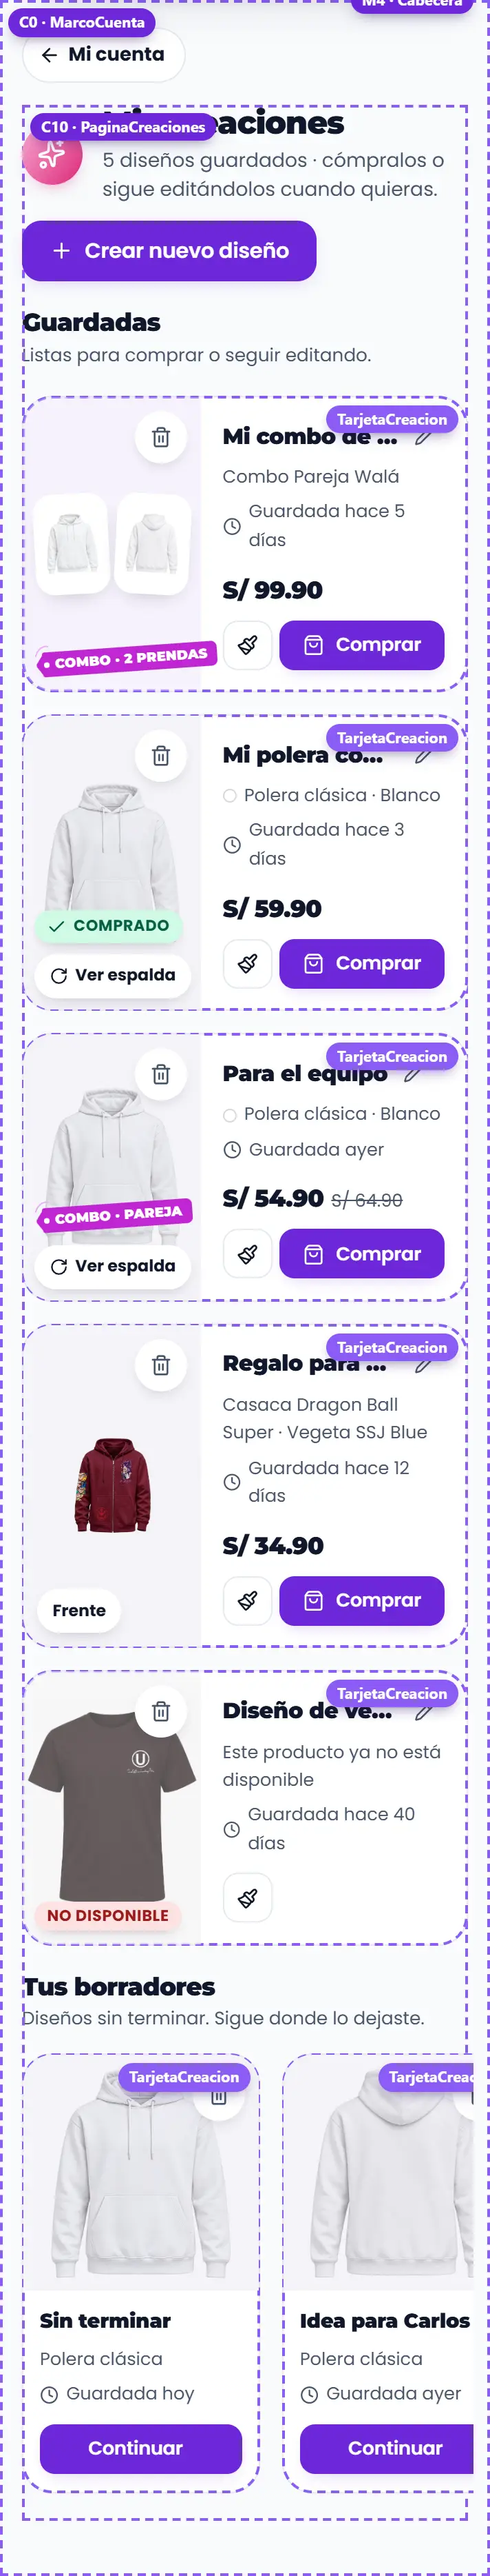
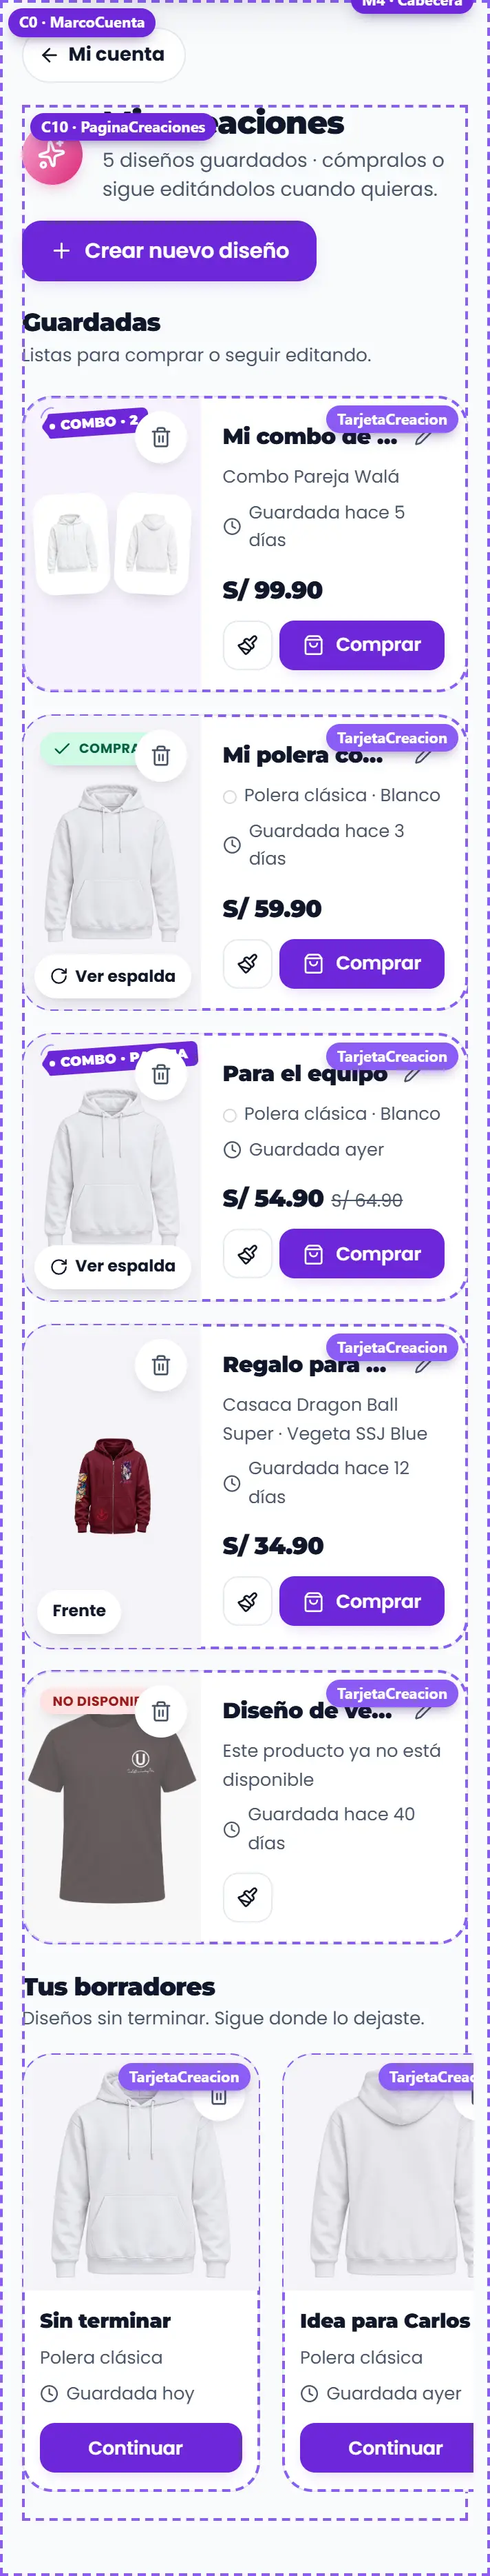
Kit: la tarjeta de creación se comporta como la de producto al pasar el mouse
- Etiquetas arriba a la izquierda, en columna y dentro de la foto (ya no
  asoman por el borde); "Combo · 2" corto y en tamaño chico si la foto es
  angosta, como la tarjeta de producto.
- Con el ratón: se inclina siguiendo al puntero y se levanta, el canto se
  ilumina donde está el puntero, un barrido de luz cruza la foto, la foto se
  acerca y las etiquetas se mecen; en el celular, se hunde un poco al tocar.

diff --git a/src/componentes/kit/piezas/Creaciones.module.css b/src/componentes/kit/piezas/Creaciones.module.css
@@ -68,6 +68,8 @@
   height: 2rem;
 }
 
+/* Etiquetas como en la tarjeta de producto: arriba a la izquierda, en
+   columna, dentro de la foto (el tacho va a la derecha, como el corazón). */
 .etiquetas {
   position: absolute;
   z-index: 2;
@@ -75,9 +77,10 @@
   left: 12px;
   right: 56px;
   display: flex;
-  flex-wrap: wrap;
+  flex-direction: column;
   align-items: flex-start;
-  gap: 0.35rem;
+  gap: 9px;
+  pointer-events: none;
 }
 
 .eliminar {
@@ -420,17 +423,14 @@
     min-width: 0;
   }
 
-  /* La foto es angosta: una sola etiqueta, abajo (arriba está el tacho). */
+  /* La foto es angosta: una sola etiqueta (la más importante), arriba y en
+     tamaño chico, como en la tarjeta de producto de dos columnas. */
   .etiquetas {
-    top: auto;
-    right: 8px;
-    bottom: 48px;
-    /* Aire para el hilo de la etiqueta colgante (no asoma por el borde). */
-    left: 16px;
+    right: 50px;
   }
 
-  .fotoMarco:not(:has(.girar, .lados)) .etiquetas {
-    bottom: 10px;
+  .etiquetas > * {
+    font-size: 0.6rem;
   }
 
   .etiquetas > :nth-child(n + 2) {
@@ -490,16 +490,69 @@
   }
 }
 
-/* Vida al pasar el ratón: la tarjeta sube un poco, la foto se acerca, las
-   prendas de un combo se abren y las etiquetas saltan. Solo con ratón. */
-@media (hover: hover) and (pointer: fine) and (prefers-reduced-motion: no-preference) {
-  .creacion {
-    transition: border-color var(--dur-rapida) ease, transform var(--dur-media) var(--ease-signature), box-shadow var(--dur-media) ease;
+/* Al pasar el ratón, como la tarjeta de producto: se inclina siguiendo al
+   puntero y se levanta, el canto se ilumina donde está el puntero, un
+   barrido de luz cruza la foto una vez, la foto se acerca (o muestra la
+   espalda), las etiquetas se mecen y un combo abre sus prendas. */
+.creacion {
+  --rx: 0deg;
+  --ry: 0deg;
+  --mx: 50%;
+  --my: 30%;
+  transform: perspective(1000px) rotateX(var(--rx)) rotateY(var(--ry));
+  transition:
+    transform 0.5s var(--ease-signature),
+    box-shadow var(--dur-media) var(--ease-signature),
+    border-color var(--dur-media) ease;
+}
+
+.bordeLuz {
+  position: absolute;
+  inset: -1px;
+  z-index: 5;
+  padding: 1px;
+  border-radius: inherit;
+  background: radial-gradient(180px circle at var(--mx) var(--my), rgba(139, 92, 246, 0.55), transparent 70%);
+  -webkit-mask: linear-gradient(#000 0 0) content-box, linear-gradient(#000 0 0);
+  -webkit-mask-composite: xor;
+  mask: linear-gradient(#000 0 0) content-box exclude, linear-gradient(#000 0 0);
+  opacity: 0;
+  pointer-events: none;
+  transition: opacity var(--dur-media) ease;
+}
+
+.barrido {
+  position: absolute;
+  z-index: 1;
+  inset: 0;
+  background: linear-gradient(110deg, transparent 38%, rgba(255, 255, 255, 0.35) 50%, transparent 62%);
+  transform: translateX(-110%);
+  pointer-events: none;
+}
+
+@media (hover: hover) and (pointer: fine) {
+  .creacion:hover {
+    border-color: var(--violet-200);
+    box-shadow: 0 16px 32px -20px rgba(76, 29, 149, 0.35);
+    transform: perspective(1000px) translateY(-4px) rotateX(var(--rx)) rotateY(var(--ry));
+    transition:
+      transform 0.15s linear,
+      box-shadow var(--dur-media) var(--ease-signature),
+      border-color var(--dur-media) ease;
   }
 
-  .creacion:hover {
-    box-shadow: 0 18px 32px -24px rgba(76, 29, 149, 0.6);
-    transform: translateY(-3px);
+  :global([data-theme='dark']) .creacion:hover {
+    border-color: rgba(167, 139, 250, 0.3);
+    box-shadow: 0 16px 36px -18px rgba(0, 0, 0, 0.7);
+  }
+
+  .creacion:hover .bordeLuz {
+    opacity: 1;
+  }
+
+  .creacion:hover .barrido {
+    transform: translateX(110%);
+    transition: transform 0.8s var(--ease-entrance, var(--ease-signature));
   }
 
   .foto > img:not(.espalda) {
@@ -507,7 +560,11 @@
   }
 
   .creacion:hover .foto > img:not(.espalda) {
-    transform: scale(1.05);
+    transform: scale(1.04);
+  }
+
+  .creacion:hover .etiquetas > * {
+    --inclinar: -9deg;
   }
 
   .prenda {
@@ -518,16 +575,8 @@
     transform: translateY(-4px) rotate(calc((var(--i) - 0.5) * 14deg)) scale(1.04);
   }
 
-  .etiquetas {
-    transition: transform var(--dur-media) var(--ease-signature);
-  }
-
-  .creacion:hover .etiquetas {
-    transform: translateY(-2px);
-  }
-
   .eliminar {
-    opacity: 0.8;
+    opacity: 0.85;
   }
 
   .creacion:hover .eliminar {
@@ -542,3 +591,21 @@
     transform: rotate(-14deg) scale(1.1);
   }
 }
+
+@media (hover: none), (pointer: coarse) {
+  .creacion:active {
+    transform: scale(0.985);
+  }
+}
+
+@media (prefers-reduced-motion: reduce) {
+  .creacion,
+  .creacion:hover {
+    transform: none;
+  }
+
+  .barrido {
+    display: none;
+  }
+}
+

diff --git a/src/componentes/kit/piezas/Creaciones.jsx b/src/componentes/kit/piezas/Creaciones.jsx
@@ -1,8 +1,7 @@
-import React, { useState } from 'react';
+import React, { useRef, useState } from 'react';
 import { Clock, Paintbrush, ShoppingBag, Trash2, Pencil, Check, RotateCw, ImageOff, Users, RefreshCw, EyeOff, ArrowRight } from 'lucide-react';
 import Boton from '../Boton';
 import { Etiqueta } from '../Etiquetas';
-import { EtiquetaColgante } from '../Marca';
 import { soles } from '../TarjetaProducto';
 import { FotoProducto } from './FotoProducto';
 import s from './Creaciones.module.css';
@@ -35,8 +34,9 @@ const COMUNIDAD = {
  *  - nombre · imagen, imagenEspalda · imagenes: [url] (prendas de un combo)
  *  - producto, color: { nombre, hex } · subtitulo: en vez de "producto · color"
  *  - fecha: "Guardada hace 3 días" (ya legible) · precio, precioAntes
- *  - comprado, disponible (false: ya no está), publicada, combo (texto de la
- *    etiqueta: "Pareja", "2 prendas"), lados ("Frente + Espalda")
+ *  - comprado, disponible (false: ya no está), publicada, combo (texto corto
+ *    de la etiqueta, como en la tarjeta de producto: "2", "Pareja"), lados
+ *    ("Frente + Espalda")
  *  - aviso: texto en lugar del precio ("Este combo ya no se vende…")
  *  - urlEditar, urlComprar · borrador: un solo botón "Continuar" (urlEditar)
  *  - onRenombrar(nombre), onEliminar(): promesas
@@ -54,6 +54,23 @@ export function TarjetaCreacion({
   const [editando, setEditando] = useState(null);
   const [guardando, setGuardando] = useState(false);
   const prendas = imagenes?.filter(Boolean) || [];
+  // Como la tarjeta de producto: con ratón se inclina siguiendo al puntero
+  // (4° como mucho) y el canto se ilumina donde está.
+  const ref = useRef(null);
+  const mover = (e) => {
+    if (e.pointerType !== 'mouse' || !ref.current) return;
+    const r = ref.current.getBoundingClientRect();
+    const x = (e.clientX - r.left) / r.width;
+    const y = (e.clientY - r.top) / r.height;
+    ref.current.style.setProperty('--mx', `${x * 100}%`);
+    ref.current.style.setProperty('--my', `${y * 100}%`);
+    ref.current.style.setProperty('--ry', `${(x - 0.5) * 8}deg`);
+    ref.current.style.setProperty('--rx', `${(0.5 - y) * 8}deg`);
+  };
+  const salir = () => {
+    ref.current?.style.setProperty('--rx', '0deg');
+    ref.current?.style.setProperty('--ry', '0deg');
+  };
   const enComunidad = publicada || comunidad?.estado === 'publicada';
 
   // Etiquetas de la foto por importancia; solo las dos primeras.
@@ -61,7 +78,7 @@ export function TarjetaCreacion({
     !disponible && <Etiqueta key="no" tono="peligro" sobreFoto>No disponible</Etiqueta>,
     borrador && prendas.length > 1 && <Etiqueta key="borrador" tono="aviso" sobreFoto>Borrador</Etiqueta>,
     comprado && <Etiqueta key="comprado" tono="exito" sobreFoto icono={<Check aria-hidden="true" />}>Comprado</Etiqueta>,
-    combo && <EtiquetaColgante key="combo" tono="magenta" tamano="sm">Combo · {combo}</EtiquetaColgante>,
+    combo && <Etiqueta key="combo" tono="violeta" solida>Combo · {combo}</Etiqueta>,
     enComunidad && <Etiqueta key="pub" tono="violeta" sobreFoto icono={<Users aria-hidden="true" />}>En la comunidad</Etiqueta>,
   ].filter(Boolean).slice(0, 2);
 
@@ -88,7 +105,14 @@ export function TarjetaCreacion({
   };
 
   return (
-    <article className={[s.creacion, !disponible && s.noDisponible, borrador && s.borrador].filter(Boolean).join(' ')} data-componente="TarjetaCreacion">
+    <article
+      ref={ref}
+      className={[s.creacion, !disponible && s.noDisponible, borrador && s.borrador].filter(Boolean).join(' ')}
+      data-componente="TarjetaCreacion"
+      onPointerMove={mover}
+      onPointerLeave={salir}
+    >
+      <span className={s.bordeLuz} aria-hidden="true" />
       <div className={s.caja}>
         <div className={s.fotoMarco}>
           {prendas.length > 1 ? (
@@ -107,6 +131,7 @@ export function TarjetaCreacion({
               {imagenEspalda && <img className={s.espalda} src={imagenEspalda} alt="" loading="lazy" draggable={false} />}
             </FotoProducto>
           )}
+          <span className={s.barrido} aria-hidden="true" />
           {etiquetas.length > 0 && <div className={s.etiquetas}>{etiquetas}</div>}
           {onEliminar && (
             <button type="button" className={s.eliminar} onClick={preguntarEliminar} aria-label={`Eliminar ${nombre || 'esta creación'}`}>

diff --git a/src/componentes/DemoPiezasCuenta.jsx b/src/componentes/DemoPiezasCuenta.jsx
@@ -186,7 +186,7 @@ export default function DemoPiezasCuenta({ imagenes }) {
       <Ficha nombre="TarjetaCreacion (combo · comunidad)" usadaEn="Un combo con sus prendas lado a lado; publicar en la comunidad (admins); borrador" ancho="1 / -1">
         <div style={{ display: 'grid', gap: '0.75rem', gridTemplateColumns: 'repeat(auto-fit, minmax(min(100%, 340px), 1fr))' }}>
           <TarjetaCreacion
-            nombre="Mi combo de pareja" imagenes={[imagenes.frente, imagenes.espalda]} combo="2 prendas" subtitulo="Combo Pareja Walá" fecha="Guardada hace 5 días"
+            nombre="Mi combo de pareja" imagenes={[imagenes.frente, imagenes.espalda]} combo="2" subtitulo="Combo Pareja Walá" fecha="Guardada hace 5 días"
             precio={99.9} urlEditar="/combo" urlComprar="/combo" comunidad={{ estado: null, onPublicar: () => espera(600) }}
           />
           <TarjetaCreacion nombre="Combo de aniversario" borrador imagenes={[imagenes.frente, imagenes.espalda]} subtitulo="1 de 2 prendas con diseño · sin terminar" fecha="Editado hoy" urlEditar="/combo" />

diff --git a/src/componentes/DemoCuenta.jsx b/src/componentes/DemoCuenta.jsx
@@ -155,7 +155,7 @@ const creacionesDemo = (fotos) => [
 ];
 /* Un combo guardado (TarjetaMiCombo) y uno a medias. */
 const combosDemo = (fotos) => [
-  { id: 'k1', nombre: 'Mi combo de pareja', imagenes: [POLERA, POLERA_ESPALDA], combo: '2 prendas', subtitulo: 'Combo Pareja Walá',
+  { id: 'k1', nombre: 'Mi combo de pareja', imagenes: [POLERA, POLERA_ESPALDA], combo: '2', subtitulo: 'Combo Pareja Walá',
     fecha: 'Guardada hace 5 días', precio: 99.9, urlEditar: '/combo/pareja?mio=k1', urlComprar: '/combo/pareja?mio=k1' },
 ];
 
